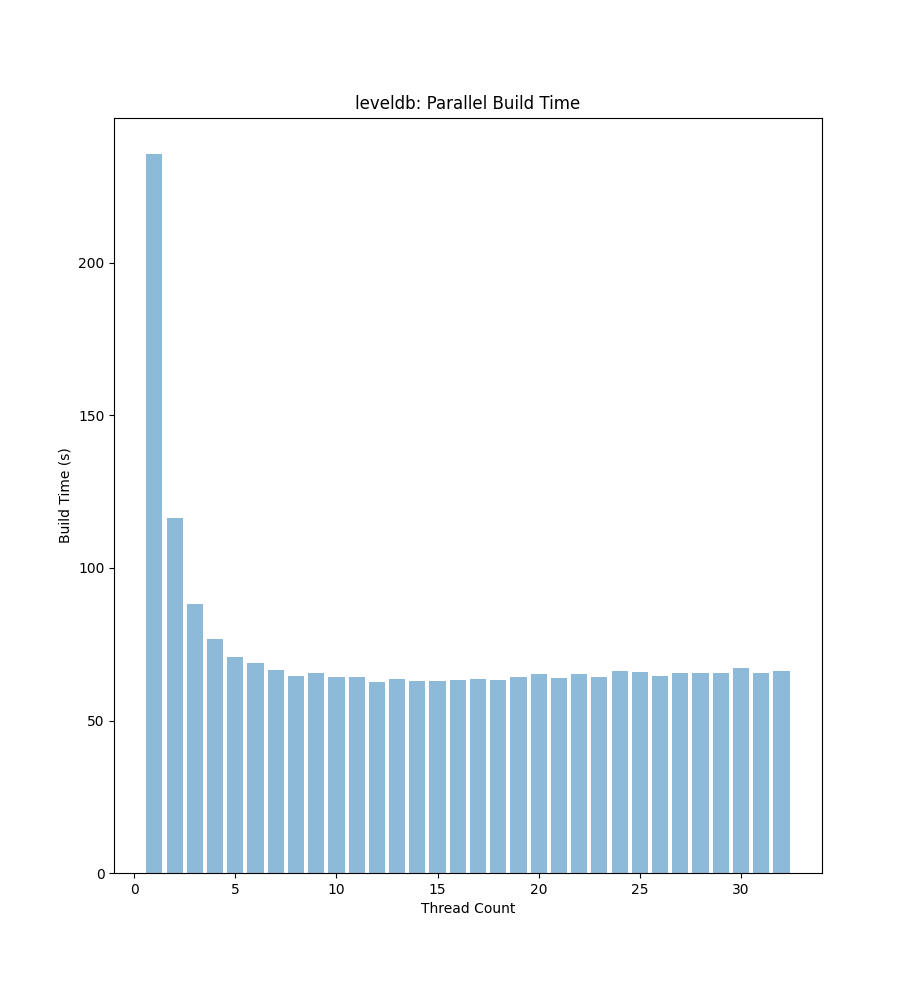
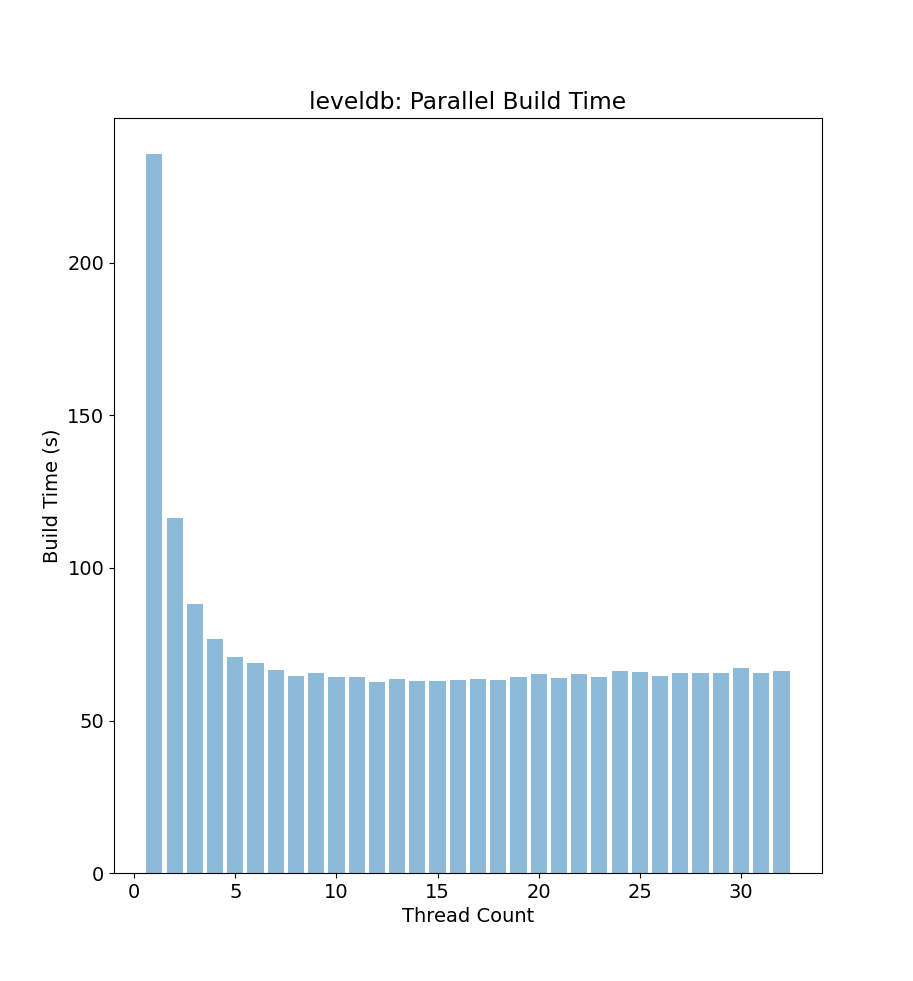
Enlarge figure text

diff --git a/scripts/parseFileBench.py b/scripts/parseFileBench.py
@@ -115,6 +115,11 @@ def extractData(f):
 	return data
 
 def LatencyGraph(df):
+	font = {'family' : 'normal',
+        'weight' : 'normal',
+        'size'   : 14}
+	plt.rc('font', **font)
+
 	df = df.sort_values('avgLatency')
 	plt.barh('labels', 'avgLatency', data=df, align='center', alpha=0.5)
 	plt.ylabel("Workload")
@@ -123,6 +128,11 @@ def LatencyGraph(df):
 	plt.show()
 
 def BandwidthGraph(df):
+	font = {'family' : 'normal',
+        'weight' : 'normal',
+        'size'   : 14}
+	plt.rc('font', **font)
+
 	df = df.sort_values('bandwidth')
 	plt.barh('labels', 'bandwidth', data=df, align='center', alpha=0.5)
 	plt.ylabel("Workload")

diff --git a/scripts/parseBuildTest.py b/scripts/parseBuildTest.py
@@ -3,6 +3,10 @@ import pandas as pd
 import matplotlib.pyplot as plt
 
 def RunTimeGraph(df):
+	font = {'family' : 'normal',
+        'weight' : 'normal',
+        'size'   : 14}
+	plt.rc('font', **font)
 	plt.bar('jobcount', 'time', data=df, align='center', alpha=0.5)
 	plt.xlabel("Thread Count")
 	plt.ylabel("Build Time (s)")
